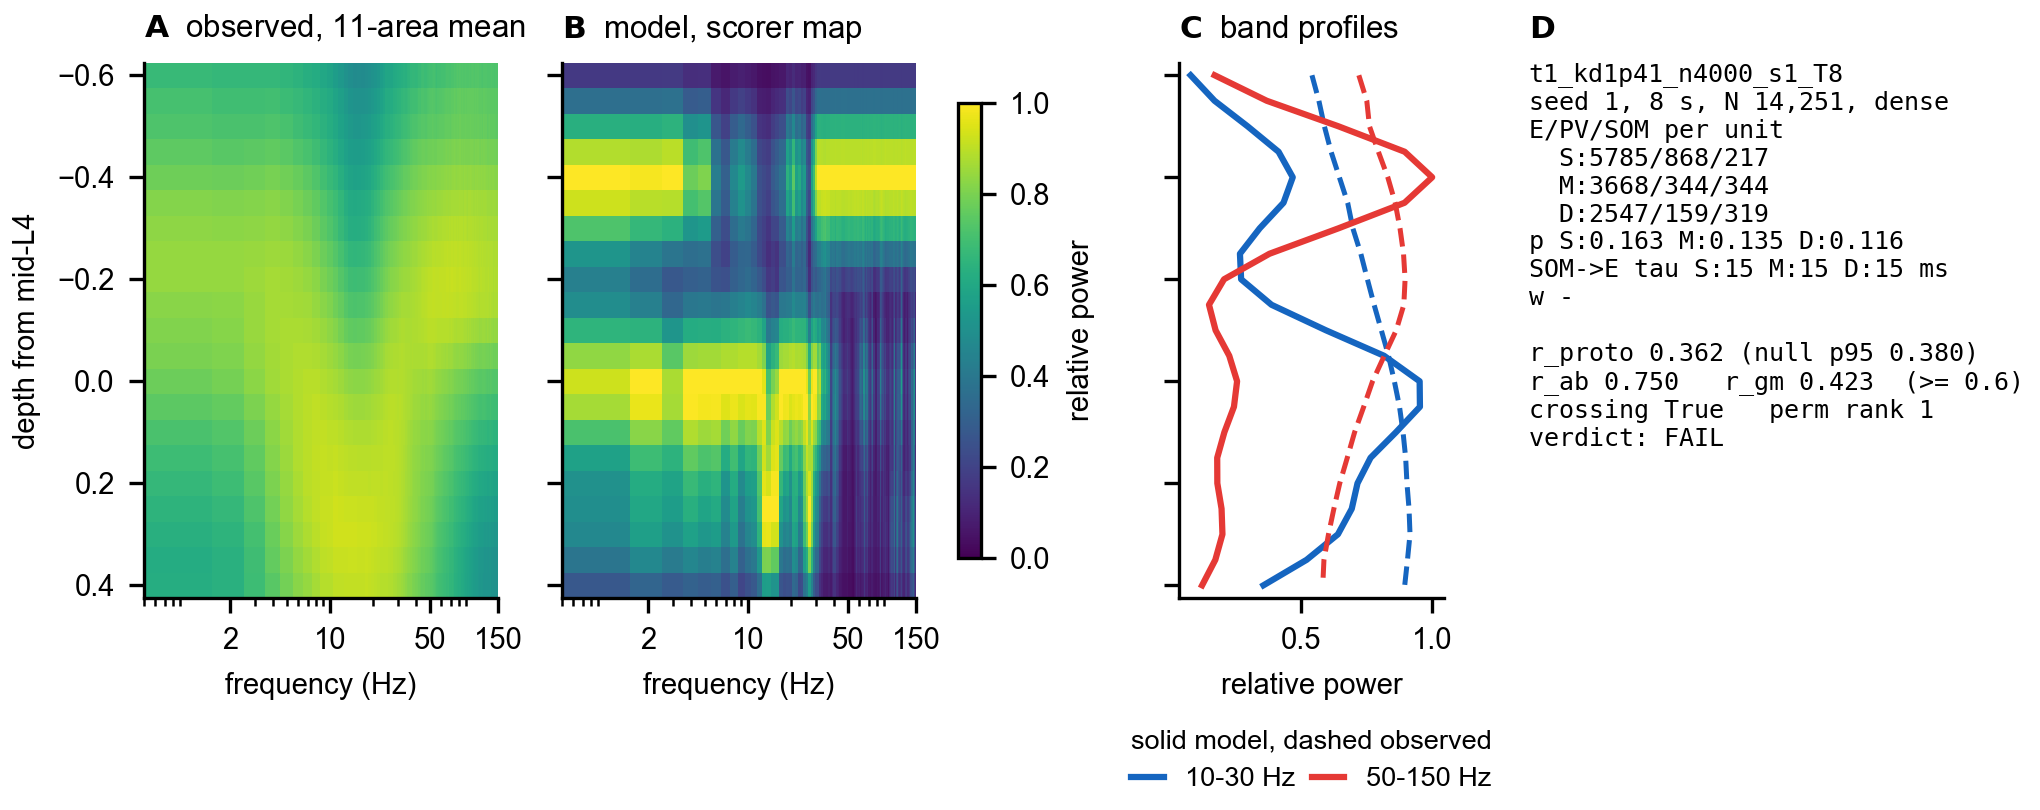
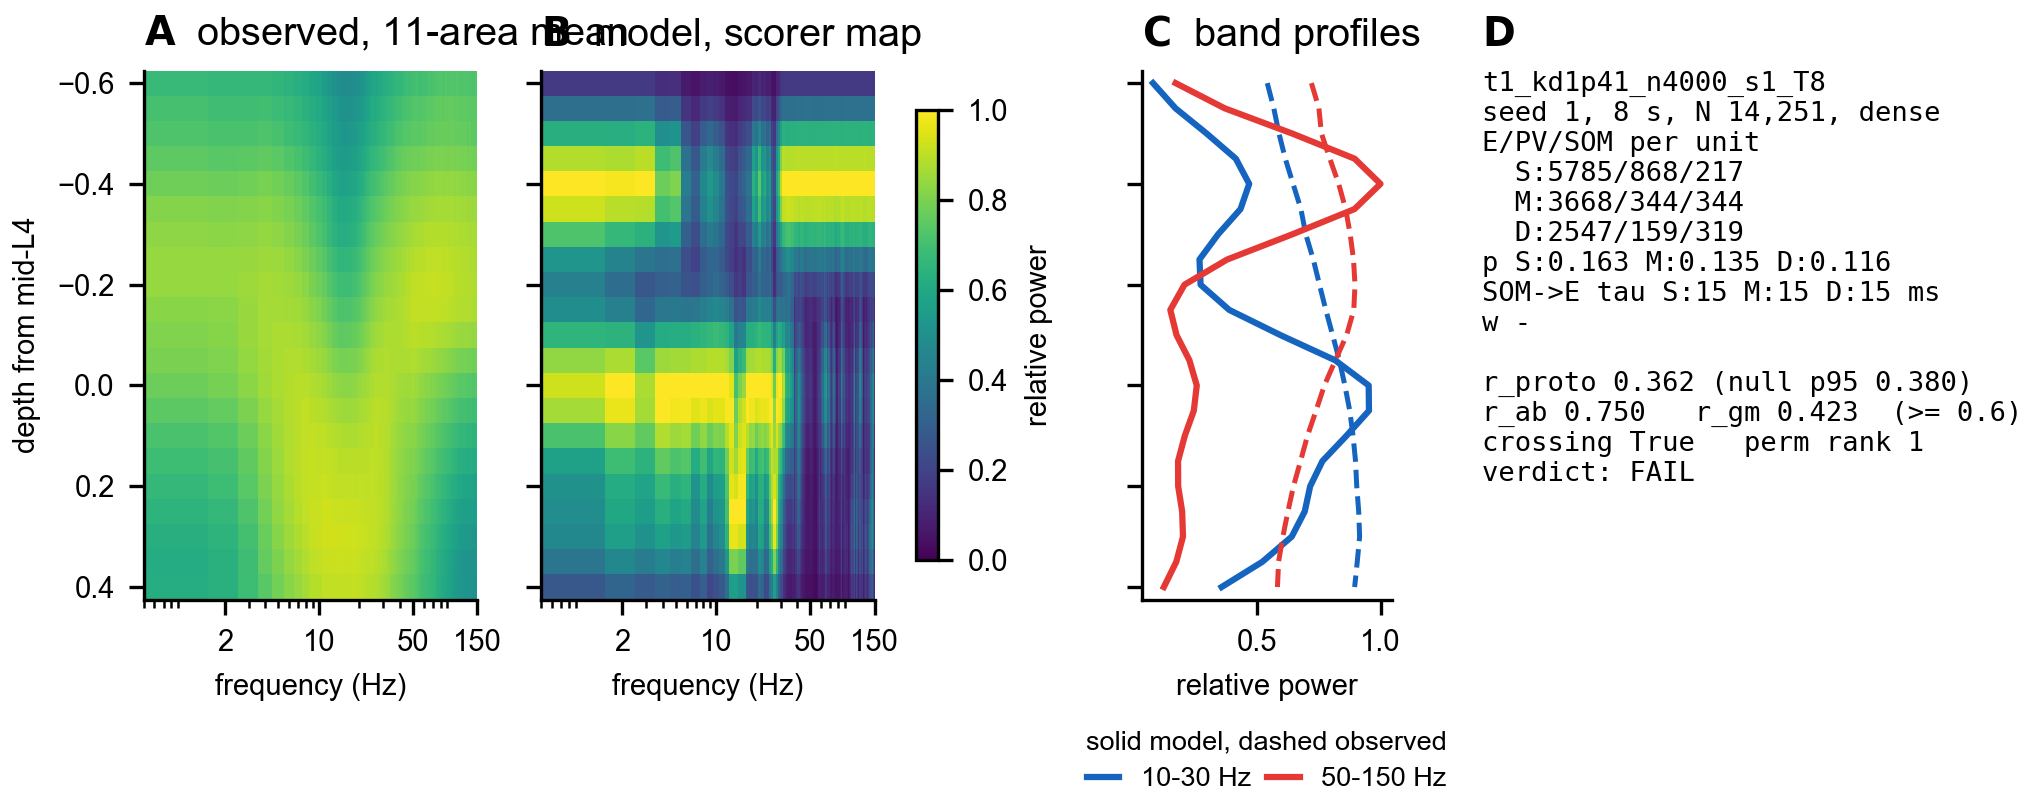
Phase A3: raise every figure label to its print-size floor
Measured at the 489.10 pt text width (6.7677 in), the canvases were drawn at 7.2 and 6.8 in and printed at scale 0.940 and 0.995, which put three label classes under the match-visual-style floors.

- Fig 1 e2_circuit_schema.py: canvas 7.2 -> 6.7677 in, so scale is 1.000 (7 pt stays 7 pt).
- Fig 3 e2_concept_panels.py: canvas 6.8 -> 6.7677 in; panel D monospace 6.0 -> 6.5 pt, panel letters 8.0 -> 9.5 pt.
- Fig 2 e2_paper_block.py: canvas stays 7.2 in because its layout is in absolute inches (COL_X + AX_W = 6.9 in would overflow a narrower page); TEXT_PT, LABEL_PT and LETTER_PT carry FONT_SCALE = 7.2/6.7677 instead, and the SOM in-cell label goes 5.5 -> 6.9 pt native.

At print: Fig 1 ticks 7.00, legend 6.50, letters 10.00; Fig 2 text 6.11, labels 6.58, SOM 6.10, letters 9.02; Fig 3 ticks 7.00, mono 6.50, letters 9.50; Fig 4 unchanged (6.0-7.0). Zero items under floor. Renders inspected at 150 dpi on pages 4, 6 and 7 of the rebuilt 35-page PDF (0 undefined, 0 overfull, 0 float-too-large).

Regenerated only the four paper figures and reverted the 60 other run panels the batch script had rewritten. D6: the six regenerated PNGs re-hashed, 158/158 entries verify against disk.

diff --git a/scripts/e2_paper_block.py b/scripts/e2_paper_block.py
@@ -68,11 +68,18 @@ MODULE_LS = ("-", "--", ":")  # module line style in panel C: a second cue to th
 TYPE_MARKER = {"E": "o", "PV": "^", "SOM": "s"}  # panel C: a non-colour cue per cell type
 MARK_EVERY_HZ = 15  # panel C: one marker per 15 Hz on the 1 Hz grid
 STACK_GAP = 0.5  # panel B: z units added beyond 2 x max|z| so adjacent traces never touch
-FIG_W, FIG_H = 7.2, 6.7  # inches; 7.2 in is the full page width
+FIG_W, FIG_H = 7.2, 6.7  # inches; 7.2 in canvas printed at the 6.7677 in text width (scale 0.940), so fonts carry
+# FONT_SCALE below to reach their floors at print. The layout uses absolute inch positions (COL_X, AX_W), so the canvas
+# width is not shrunk to the text width: that would push the third column past the page edge.
+FONT_SCALE = 1.0638  # 7.2 / 6.7677: native pt x scale = pt at print
 AX_W, AX_H = 1.75, 2.2  # inches, one panel
 COL_X = (0.95, 3.05, 5.15)  # left edge of each panel column, inches
 ROW_Y = (4.1, 1.2)  # bottom edge of the top and bottom panel row, inches
-TEXT_PT = 6.5  # tick and note size; axis labels 7 pt; panel letters 9 pt (match-visual-style floors)
+# Every pt below is native to the 7.2 in canvas; x FONT_SCALE gives the size at print (scale 0.940).
+# Floors at print: 6 pt text, 5.5 pt ticks, 9 pt panel letters (match-visual-style).
+TEXT_PT = 6.5 * FONT_SCALE  # 6.91 native -> 6.5 pt at print (tick and note size)
+LABEL_PT = 7.0 * FONT_SCALE  # 7.45 native -> 7.0 pt at print (axis labels)
+LETTER_PT = 9.6 * FONT_SCALE  # 10.2 native -> 9.6 pt at print (panel letters, floor 9)
 
 
 def _sgn(d: float) -> str:
@@ -336,7 +343,7 @@ def to_markdown(det: dict) -> str:
 
 def _set_style() -> None:
     plt.rcParams.update({"font.family": "sans-serif", "font.sans-serif": ["Arial", "Helvetica", "DejaVu Sans"],
-                         "font.size": TEXT_PT, "axes.labelsize": 7, "axes.linewidth": 0.6,
+                         "font.size": TEXT_PT, "axes.labelsize": LABEL_PT, "axes.linewidth": 0.6,
                          "xtick.major.width": 0.6, "ytick.major.width": 0.6,
                          "xtick.labelsize": TEXT_PT, "ytick.labelsize": TEXT_PT, "legend.fontsize": TEXT_PT})
 
@@ -367,12 +374,12 @@ def draw_v0(det: dict, path: Path) -> None:
         ax.add_patch(FancyBboxPatch((x0, yc - box_h / 2), box_w, box_h, boxstyle="round,pad=0,rounding_size=0.06",
                                     fc="none", ec="#555555", lw=0.8))
         ax.text(x0 + 0.12, yc + box_h / 2 - 0.18, f"{m}   depth {_sgn(mod['depth_rel_L4'])}   rho {mod['rho']:g}   "
-                f"N {mod['N']:,}", fontsize=7, weight="bold", va="center")
+                f"N {mod['N']:,}", fontsize=LABEL_PT, weight="bold", va="center")
         nodes = {"E": (x0 + 0.6, yc - 0.1, mod["N_E"]), "PV": (x0 + 1.75, yc + 0.08, mod["N_PV"]),
                  "SOM": (x0 + 1.75, yc - 0.3, mod["N_SOM"])}
         for pop, (px, py, n) in nodes.items():
             ax.add_patch(Circle((px, py), 0.12, color=TYPE_COLOR[pop], zorder=3))
-            ax.text(px, py, pop, color="white", fontsize=5.5 if pop == "SOM" else TEXT_PT, ha="center",
+            ax.text(px, py, pop, color="white", fontsize=6.9 if pop == "SOM" else TEXT_PT, ha="center",
                     va="center", zorder=4, weight="bold")
             if pop == "E":  # the E<->PV and E<->SOM arcs leave E on the right and below; the label goes above
                 ax.text(px, py + 0.2, f"N {n:,}", fontsize=TEXT_PT, va="center", ha="center")
@@ -456,7 +463,7 @@ def _panel(fig, col: int, row: int, dx: float = 0.0, w: float = AX_W):
 
 def _letter(fig, ax, letter: str) -> None:
     box = ax.get_position()
-    fig.text((box.x0 * FIG_W - 0.2) / FIG_W, (box.y1 * FIG_H + 0.1) / FIG_H, letter, fontsize=9, weight="bold",
+    fig.text((box.x0 * FIG_W - 0.2) / FIG_W, (box.y1 * FIG_H + 0.1) / FIG_H, letter, fontsize=LETTER_PT, weight="bold",
              va="bottom")
 
 
@@ -479,7 +486,7 @@ def _sl_map(ax, R: np.ndarray, depth_ch: np.ndarray, xlabel: str, show_y: bool):
     depth_ticks = [-0.6, -0.4, -0.2, 0.0, 0.2, 0.4]
     ax.set_yticks(depth_ticks)
     ax.set_yticklabels([f"{v:.1f}".replace("-", "−") for v in depth_ticks] if show_y else [])
-    ax.set_xlabel(xlabel, fontsize=7, linespacing=1.2)
+    ax.set_xlabel(xlabel, fontsize=LABEL_PT, linespacing=1.2)
     _band_bars(ax)
     _tidy(ax)
     return im
@@ -523,7 +530,7 @@ def draw_block(rec: dict, arrays: dict[str, np.ndarray], proto: np.ndarray, disc
     axA.set_yticks(ticks)
     axA.set_yticklabels(tick_labels)
     axA.set_xticks([t_lo, (t_lo + t_hi) / 2, t_hi])
-    axA.set_xlabel("Time (s); sampled cells", fontsize=7)
+    axA.set_xlabel("Time (s); sampled cells", fontsize=LABEL_PT)
     handles = [Line2D([], [], ls="", marker="|", ms=5, color=TYPE_COLOR[p]) for p in POPS]
     axA.legend(handles, list(POPS), loc="lower left", bbox_to_anchor=(0, 1.0), ncol=3, frameon=False,
                handletextpad=0.2, columnspacing=0.8, borderaxespad=0.1)
@@ -541,8 +548,8 @@ def draw_block(rec: dict, arrays: dict[str, np.ndarray], proto: np.ndarray, disc
     axB.set_yticklabels(units)
     axB.set_xlim(t_lo, t_hi)
     axB.set_xticks([t_lo, (t_lo + t_hi) / 2, t_hi])
-    axB.set_xlabel("Time (s)", fontsize=7)
-    axB.set_ylabel("RWS, z", fontsize=7)
+    axB.set_xlabel("Time (s)", fontsize=LABEL_PT)
+    axB.set_ylabel("RWS, z", fontsize=LABEL_PT)
     _tidy(axB)
 
     # C: firing-rate spectra per module and cell type (log power, Hz^2/Hz)
@@ -563,8 +570,8 @@ def draw_block(rec: dict, arrays: dict[str, np.ndarray], proto: np.ndarray, disc
     axC.set_yscale("log")
     axC.set_xlim(1, F_MAX_HZ)
     axC.set_xticks([50, 100, 150])
-    axC.set_xlabel("Frequency (Hz)", fontsize=7)
-    axC.set_ylabel("Firing-rate PSD (Hz²/Hz)", fontsize=7)
+    axC.set_xlabel("Frequency (Hz)", fontsize=LABEL_PT)
+    axC.set_ylabel("Firing-rate PSD (Hz²/Hz)", fontsize=LABEL_PT)
     cell_handles = [Line2D([], [], color=TYPE_COLOR[p], lw=1.0, marker=TYPE_MARKER[p], ms=2.2, markevery=1)
                     for p in POPS]
     mod_handles = [Line2D([], [], color="#444444", lw=1.0, ls=MODULE_LS[i]) for i in range(n_u)]
@@ -581,7 +588,7 @@ def draw_block(rec: dict, arrays: dict[str, np.ndarray], proto: np.ndarray, disc
         raise RuntimeError("spectra are not on a 1 Hz grid")
     axD = _panel(fig, 0, 1)
     im = _sl_map(axD, R_rws[:, k_mod], mf.CHANNELS, "Frequency (Hz)\nRWS LFP (model)", True)
-    axD.set_ylabel("Position from L4", fontsize=7)
+    axD.set_ylabel("Position from L4", fontsize=LABEL_PT)
     axE = _panel(fig, 1, 1)
     _sl_map(axE, R_fr[:, k_mod], mf.CHANNELS, "Frequency (Hz)\nFiring rate, E (model)", False)
     axF = _panel(fig, 2, 1)
@@ -590,7 +597,7 @@ def draw_block(rec: dict, arrays: dict[str, np.ndarray], proto: np.ndarray, disc
     cb = fig.colorbar(im, cax=cax, orientation="horizontal", ticks=[0.5, 0.75, 1.0])
     cb.ax.set_xticklabels(["0.5", "0.75", "1"], fontsize=TEXT_PT)
     cb.outline.set_linewidth(0.5)
-    fig.text((COL_X[1] + AX_W + 0.1) / FIG_W, 0.55 / FIG_H, "Relative power", fontsize=7, va="center")
+    fig.text((COL_X[1] + AX_W + 0.1) / FIG_W, 0.55 / FIG_H, "Relative power", fontsize=LABEL_PT, va="center")
     seed, T_s = rec["seed"], rec["T_s"]
     note = (f"Run {tag} (seed {seed}, {T_s:g} s; first {discard_s:g} s discarded; n = 1 seed, no SEM).\n"
             "Model: stationary power, 1 s windows, 2 Hz smoothing, 21-contact probe (sigma 0.15). "

diff --git a/scripts/e2_concept_panels.py b/scripts/e2_concept_panels.py
@@ -30,6 +30,7 @@ OUT = mf.ROOT / "results" / "viz" / "spectrolaminar"
 # a site table, not a result: kept out of results/ (every tracked results/*.json must be a registered result)
 TABLE = mf.ROOT / "site-src" / "data" / "spectrolaminar_runs.json"
 PT = 7
+LETTER_PT = 9  # panel letters (match-visual-style floor: 9 pt at print; canvas is the text width so scale 1.000)
 C_AB, C_GM = "#1565c0", "#e53935"
 
 
@@ -81,7 +82,7 @@ def panel(tag: str, out: Path = OUT) -> dict:
     row = config_row(tag, rec, v)
     plt.rcParams.update({"font.size": PT, "font.family": ["Arial", "Helvetica", "DejaVu Sans"],
                          "axes.spines.top": False, "axes.spines.right": False})
-    fig = plt.figure(figsize=(6.8, 2.7), constrained_layout=True)  # print size: full text width
+    fig = plt.figure(figsize=(6.7677, 2.7), constrained_layout=True)  # text width 489.10307 pt: scale 1.000 at print
     gs = fig.add_gridspec(1, 4, width_ratios=[1, 1, 0.75, 1.3])
     a = fig.add_subplot(gs[0])
     _map(a, sc.PROTO, "observed, 11-area mean")
@@ -110,11 +111,11 @@ def panel(tag: str, out: Path = OUT) -> dict:
              f"r_ab {row['r_ab']:.3f}   r_gm {row['r_gm']:.3f}  (>= 0.6)",
              f"crossing {row['crossing_2se']}   perm rank {row['perm_rank']}",
              f"verdict: {'PASS' if row['pass'] else 'FAIL'}"]
-    d.text(0, 1, "\n".join(lines), va="top", fontsize=PT - 1, family="DejaVu Sans Mono", transform=d.transAxes)
+    d.text(0, 1, "\n".join(lines), va="top", fontsize=PT - 0.5, family="DejaVu Sans Mono", transform=d.transAxes)
     for ax_, letter in zip((a, b, c, d), "ABCD"):
         t = ax_.get_title()
         ax_.set_title("")
-        ax_.set_title(rf"$\bf{{{letter}}}$  {t}", loc="left", fontsize=PT + 0.5)
+        ax_.set_title(rf"$\bf{{{letter}}}$  {t}", loc="left", fontsize=LETTER_PT + 0.5)
     (out / "runs").mkdir(parents=True, exist_ok=True)
     fig.savefig(out / "runs" / f"{tag}.png", dpi=300)
     plt.close(fig)

diff --git a/scripts/e2_circuit_schema.py b/scripts/e2_circuit_schema.py
@@ -78,7 +78,7 @@ def main(tag: str, out: Path = OUT) -> Path:
     z, types, Xm, Y, areas = lansa()
     plt.rcParams.update({"font.size": PT, "font.family": ["Arial", "Helvetica", "DejaVu Sans"],
                          "axes.spines.top": False, "axes.spines.right": False, "pdf.fonttype": 42})
-    fig = plt.figure(figsize=(7.2, 6.4), constrained_layout=True)
+    fig = plt.figure(figsize=(6.7677, 6.4), constrained_layout=True)  # text width 489.10307 pt: scale 1.000 at print
     gs = fig.add_gridspec(2, 3, width_ratios=[1, 1.15, 1.15])
     # A: densities
     ax = fig.add_subplot(gs[0, 0])
